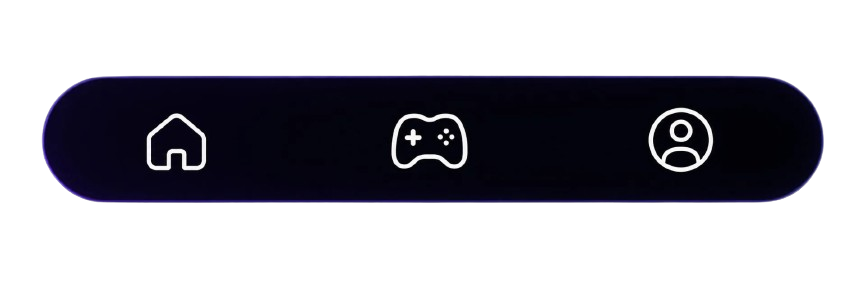
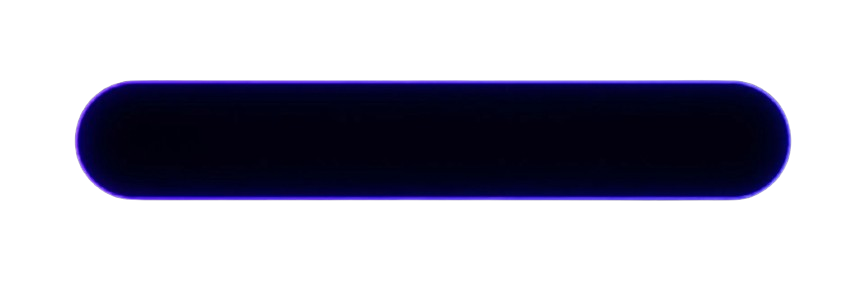
feat: crash graph scroll

diff --git a/src/components/CrashPage.tsx b/src/components/CrashPage.tsx
@@ -86,7 +86,12 @@ export const CrashPage: React.FC<CrashPageProps> = ({ balance, onUpdateBalance, 
           const prevY = prev.length > 0 ? prev[prev.length - 1].y : 100;
           const newX = Math.min(prevX + 10, 100);
           const newY = Math.max(prevY - (Math.random() * 10 + 5), 10);
-          return [...prev, { x: newX, y: newY }];
+          const newPoints = [...prev, { x: newX, y: newY }];
+          // Сдвигаем график влево, если точек больше 10 (эффект бегущей строки)
+          if (newPoints.length > 10) {
+            return newPoints.map(p => ({ ...p, x: p.x - 5 }));
+          }
+          return newPoints;
         });
         lastPointTimeRef.current = time;
       }
